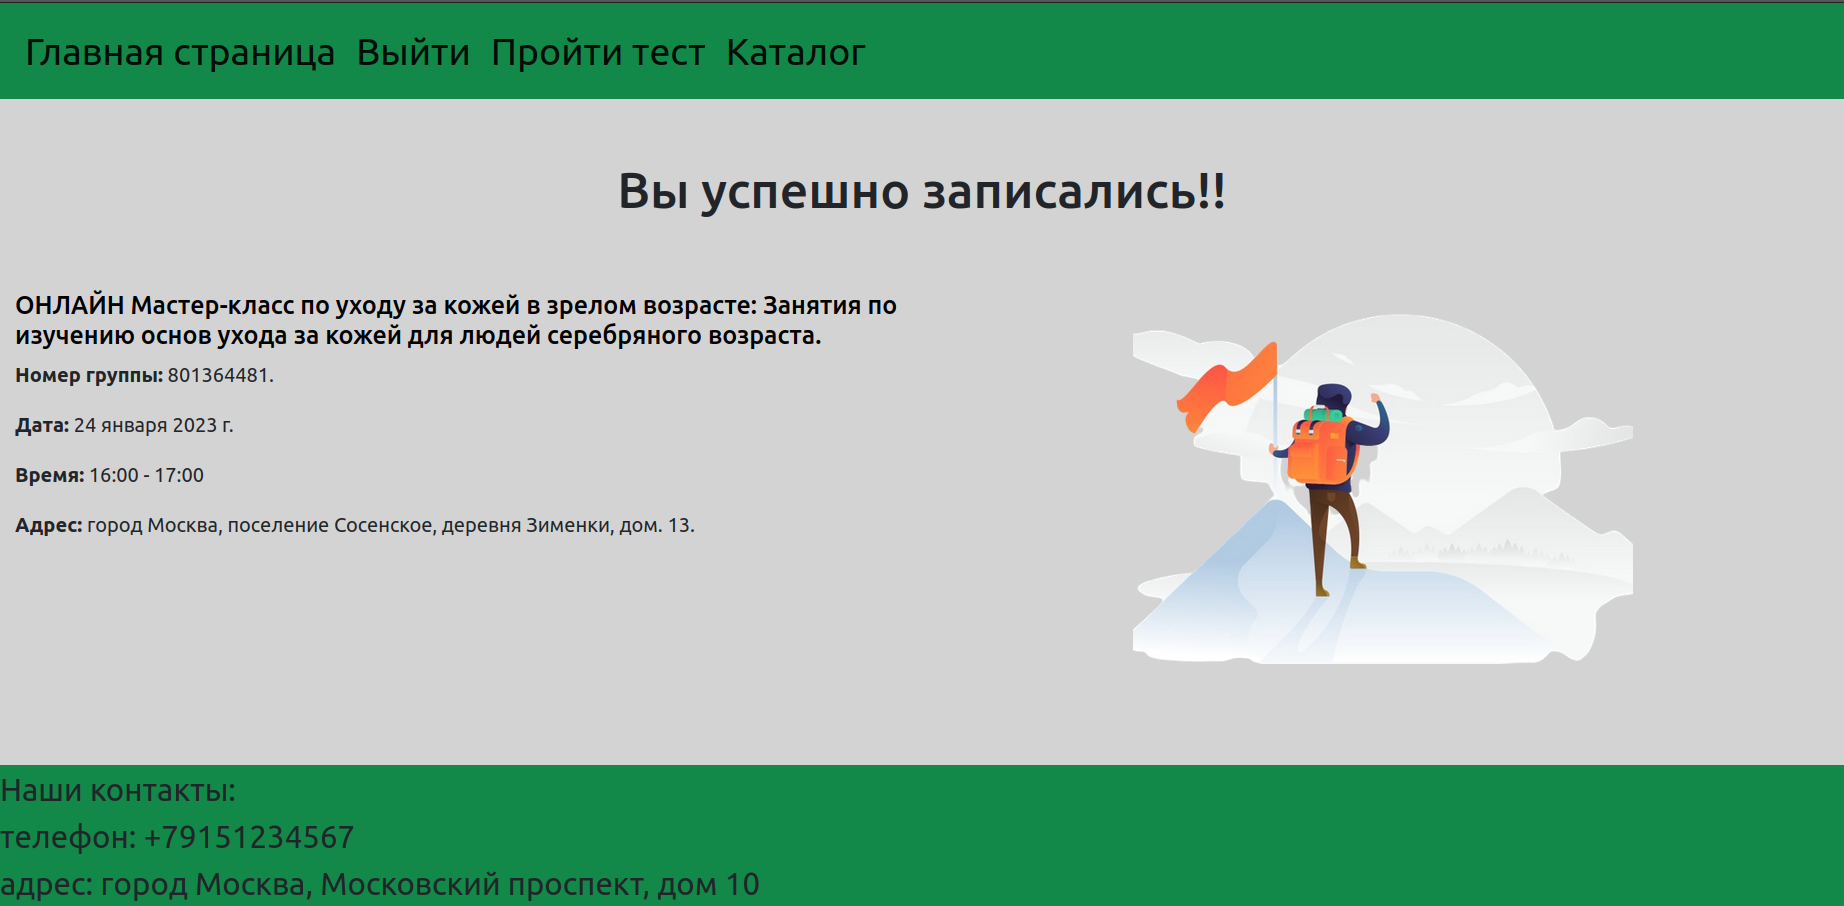
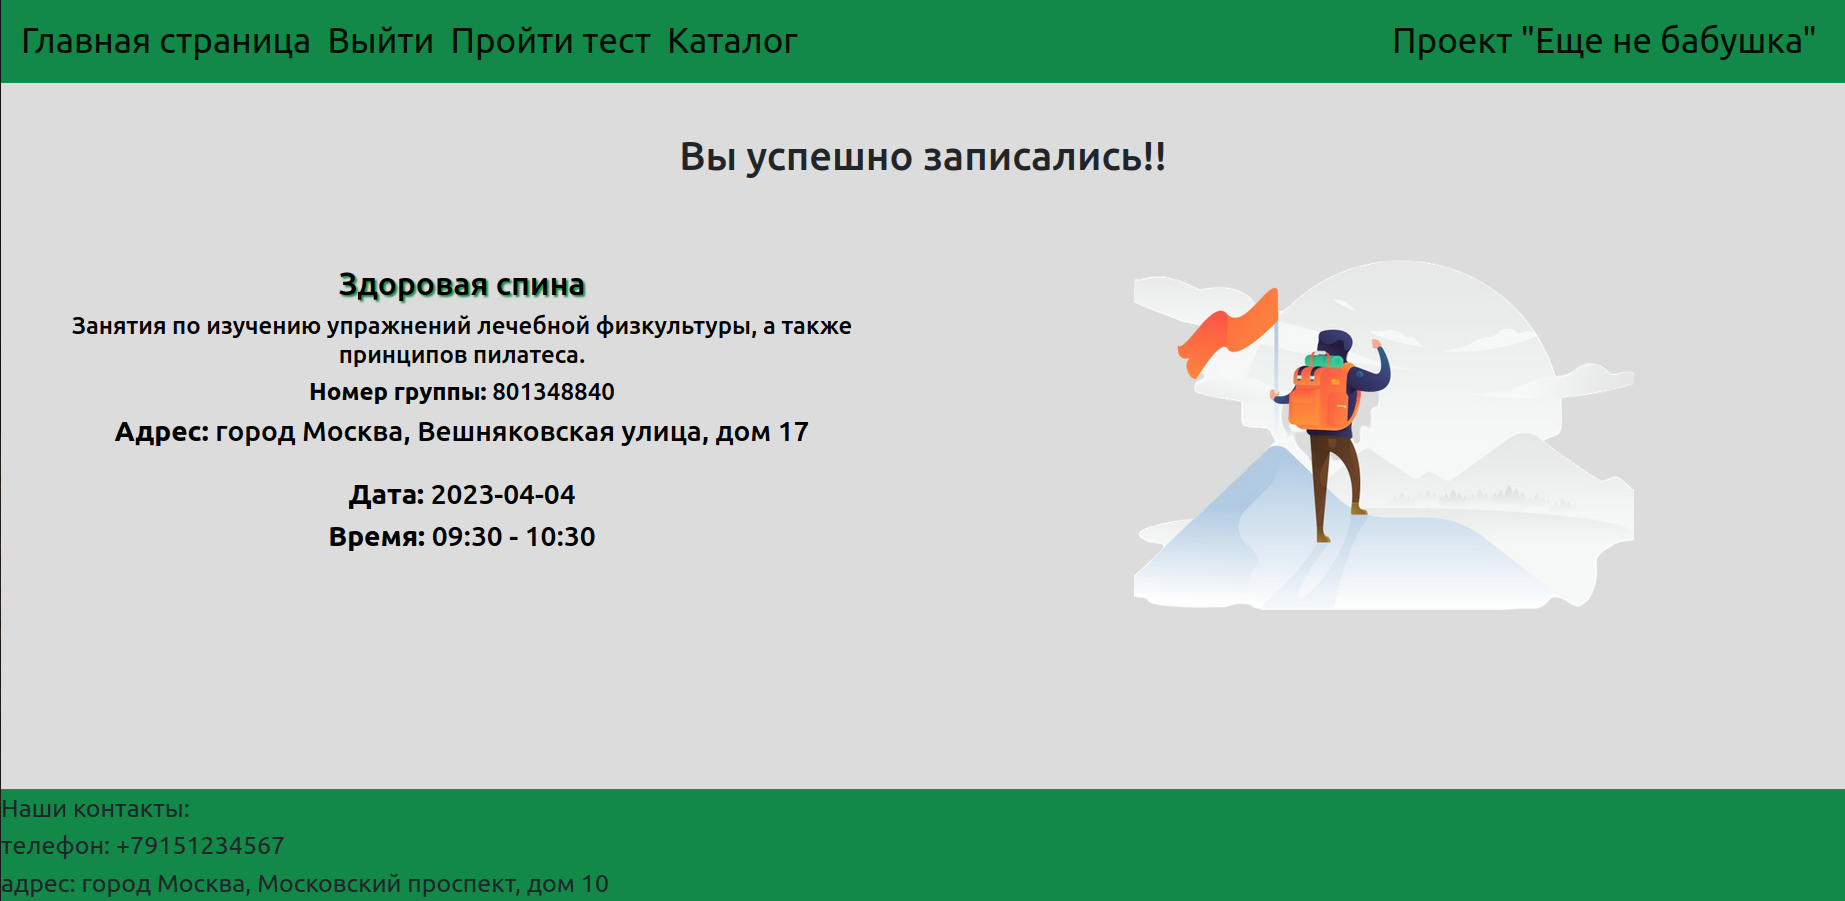
changes css, html

diff --git a/recommendations/rec_app/templates/rec_app/recommendations.html b/recommendations/rec_app/templates/rec_app/recommendations.html
@@ -1,12 +1,10 @@
 {% extends 'base.html' %}
-{% load static %}
-{% load widget_tweaks %}
 {% load django_bootstrap5 %}
 {% block content %}
 <div class="description">
     <div class="row my-5">
         <div class="col-md-9 mx-auto border border-success rounded border-2">
-            <h2 class="text-center"> Ваш результат: {{result}} баллов</h2>
+            <h1 class="text-center"> Ваш результат: {{result}} баллов</h1>
             <h5 class="text-center"> {{description}}</h5>
         </div>
     </div>
@@ -15,29 +13,14 @@
     {% if groups_list %}
     <h4>{{ message }} </h4>
     <div class="row my-5">
-      {% include 'groups_list.html' %}
-        <div class="col-md-4">
-            <h4>Уточните поиск</h4>
-            <form method="GET" action="">
-                <div style="display: grid">
-                    {% for field in filter.form %}
-                    <div id="form-field-{{ forloop.counter0 }}">
-                        {{ field.label_tag }}
-                        {% render_field field class="form-control" %}
-                    </div>
-                    {% endfor %}
-                </div>
-                <button type="submit" class="btn btn-success mb-3 mt-2">Выбрать
-                </button>
-            </form>
-            <p>Внимание!<br/>Занятия онлайн не зависят от района.</p>
-        </div>
+        {% include 'groups_list.html' %}
+        {% include 'filter_with_onoff.html' %}
     </div>
 </div>
-    {% else %}
-    <div class="col-md-12">
-        {% include 'ups.html' %}
-    </div>
-    {% endif %}
+{% else %}
+<div class="col-md-12">
+    {% include 'ups.html' %}
+</div>
+{% endif %}
 {% include 'pagination.html' %}
 {% endblock %}

diff --git a/recommendations/catalog/templates/catalog/signup2group.html b/recommendations/catalog/templates/catalog/signup2group.html
@@ -6,16 +6,10 @@
     <div class="row my-5">
         <h1 class="text-center">{{ message }}:</h1>
         <div class="col-md-6">
+            {% include './group_details.html' %}
             <div class="container">
-                <h2 class="text-center">{{group.level.level}}</h2>
-                <h4 class="text-center">{{group.level.descript_level}}</h4>
-                <h3 class="text_center"><b>Расписание: </b>с {{ group.start_date }} до {{ group.end_date}}</h3>
-                <h3 class="text-center"> день недели: {{ group.weekday }}, время {{ group.start_time }} - {{ group.end_time }}</h3>
-                {% if 'ОНЛАЙН' in group.level.level %}
-                <h5 class="text_center">Занятия проходят он-лайн.</h5>
-                {% else %}
-                <h5 class="text-center"><b>Адрес:</b> {{ group.address }}</h5>
-                {% endif %}
+                <h5 class="text_center"><b>Расписание: </b>с {{ group.start_date }} до {{ group.end_date}}</h5>
+                <h5 class="text-center"><b>день недели: </b>{{ group.weekday }}, время {{ group.start_time }} - {{group.end_time}}</h5>
             </div>
             <div class="container">
                 <form action="" method="post">
@@ -27,7 +21,7 @@
             </div>
         </div>
         <div class="col-md-6">
-            <img src="{% static 'images/choice_2.png' %}" class="mx-auto d-block" width="400px">
+            <img src="{% static 'images/choice_2.png' %}" class="mx-auto d-block" width="500px">
         </div>
     </div>
 </div>

diff --git a/recommendations/catalog/templates/catalog/catalog.html b/recommendations/catalog/templates/catalog/catalog.html
@@ -5,28 +5,24 @@
     <div class="row my-5">
         <h1 class="text-center">{{ message }} </h1>
     </div>
-</div>
-<div class="container-fluid">
-    <div class="row my-5">
-        <div class="col-md-3">
-            <h3> {{ message }}</h3>
-            <form action="" method="post">
-                {% csrf_token %}
-                {% bootstrap_form form %}
-                <button type="submit" class="btn btn-success btn-block">Искать</button>
-            </form>
-        </div>
+    <div class="col-md-4">
+        <h3> {{ searcher }}</h3>
+        <form action="" method="post">
+            {% csrf_token %}
+            {% bootstrap_form form %}
+            <button type="submit" class="btn btn-success btn-block btn-lg">Искать</button>
+        </form>
     </div>
 </div>
 <div class="col-md-12 col-md-push-3">
     <div class="row">
         {% for activity_type in activity_types %}
-        <div class="col-sm-4 text-center" >
+        <div class="col-sm-4 text-center">
             <a class="btn btn-success btn-block btn-lg"
                href="types/{{ activity_type.slug }}" role="button"
                style="--bs-btn-padding-y: .25rem; --bs-btn-padding-x: .5rem; --bs-btn-font-size: 2.75rem;">
                 {{ activity_type.activity_type }}
-                </a>
+            </a>
         </div>
         {% endfor %}
     </div>

diff --git a/recommendations/static/css/style.css b/recommendations/static/css/style.css
@@ -1,18 +1,15 @@
-.menu-item{
-    color: silver;
-    display: inline;
-    text-shadow: 1px 1px 1px #000;
-    font-size: 25px;
-}
-
 footer{
     background-color: #128849;
     font-size: 25px;
 }
 
 .description{
-    background-color: rgb(152, 251, 152);
-    font-size: 25px;
+    background-color: #D3D3D3;
+}
+
+h1{
+    font-size: 85px;
+    text-align: center;
 }
 
 h2{
@@ -36,7 +33,8 @@ h4{
 }
 
 h5{
-    font-size: 24px;
+    font-size: 25px;
+    text-align: center;
     color: black;
 }
 
@@ -49,7 +47,7 @@ li{
 }
 
 input{
-    height: 35px;
+    height: 45px;
     padding: 5px;
     width: 100%;
     margin: 5px 0 22px 0;
@@ -92,7 +90,7 @@ input:focus{
 }
 
 .nav-item{
-    font-size: 30px;
+    font-size: 35px;
 }
 
 .content{
@@ -101,10 +99,24 @@ input:focus{
 
 .page-link{
     font-size: 25px;
-    color: #128849
+    background: 128849;
+    color: black;
 }
 
-.pagination .page-link {
-    background: 128849;
-    color: white;
+.form-control{
+    border: 3px solid #128849 !important;
+    font-size: 1.5rem !important;
+}
+
+.navbar-brand{
+    text-align:right;
+    font-size: 35px;
+}
+
+.form-label{
+    font-size: 25px;
+}
+
+.form-check-label{
+    font-size: 25px;
 }

diff --git a/recommendations/catalog/templates/catalog/group_success_signup.html b/recommendations/catalog/templates/catalog/group_success_signup.html
@@ -7,19 +7,14 @@
     </div>
     <div class="row my-3">
         <div class="col-md-6">
-            <h2>{{ group.level }}</h2>
-            <br/>
-            <h4><b>Номер группы: </b> {{ group.group_id.uniq_id }}</h4>
-<!--            <p><b>Дата: </b>{{ attend.date_attend }}</p>-->
-            <h4><b>Время: </b>{{group.start_time }} - {{ group.end_time }}</h4>
-            {% if 'ОНЛАЙН' in group.level.level %}
-            <h4>Занятия проходят он-лайн.</h4>
-            {% else %}
-            <h4><b>Адрес:</b> {{ group.address }}</h4>
-            {% endif %}
+            {% include './group_details.html' %}
+            <div class="container">
+                <h3 class="text-center"><b>Дата: </b>{{ date_choice }}</h3>
+                <h3 class="text-center"><b>Время: </b>{{group.start_time }} - {{ group.end_time }}</h3>
+            </div>
         </div>
         <div class="col-md-6">
-            <img src="{% static 'images/success.png' %}" class="mx-auto d-block" width="400px">
+            <img src="{% static 'images/success.png' %}" class="mx-auto d-block" width="500px">
         </div>
     </div>
 </div>

diff --git a/recommendations/catalog/templates/catalog/groups.html b/recommendations/catalog/templates/catalog/groups.html
@@ -1,7 +1,5 @@
 {% extends 'base.html' %}
 {% load django_bootstrap5 %}
-{% load widget_tweaks %}
-{% load static %}
 {% block content %}
 <div class="container-fluid">
     {% if groups_list %}
@@ -13,23 +11,9 @@
         </div>
         <div class="col-md-2">
         </div>
-        <div class="col-md-4">
             {% if not 'ОНЛАЙН' in level3.level %}
-            <h4>Уточните поиск:</h4>
-            <form method="GET" action="">
-                <div style="display: grid">
-                    {% for field in filter.form %}
-                    <div id="form-field-{{ forloop.counter0 }}">
-                        {{ field.label_tag }}
-                        {% render_field field class="form-control" %}
-                    </div>
-                    {% endfor %}
-                </div>
-                <button type="submit" class="btn btn-success mb-3 mt-2">Выбрать
-                </button>
-            </form>
+            {% include 'filter_with_onoff.html' %}
             {% endif %}
-        </div>
     </div>
     <div class="row my-3">
         <h4>{{message}}:</h4>

diff --git a/recommendations/catalog/templates/catalog/search_results.html b/recommendations/catalog/templates/catalog/search_results.html
@@ -1,7 +1,5 @@
 {% extends 'base.html' %}
-{% load static %}
 {% load django_bootstrap5 %}
-{% load widget_tweaks %}
 {% block content %}
 <div class="container-fluid">
     {% if groups_list %}
@@ -12,21 +10,7 @@
     </div>
     <div class="row my-5">
         {% include 'groups_list.html' %}
-        <div class="col-md-4">
-            <h4>Уточните поиск</h4>
-            <form method="GET" action="">
-                <div style="display: grid">
-                    {% for field in filter.form %}
-                    <div id="form-field-{{ forloop.counter0 }}">
-                        {{ field.label_tag }}
-                        {% render_field field class="form-control" %}
-                    </div>
-                    {% endfor %}
-                </div>
-                <button type="submit" class="btn btn-success mb-3 mt-2">Выбрать
-                </button>
-            </form>
-        </div>
+        {% include 'filter_with_onoff.html' %}
     </div>
     {% else %}
     <div class="col-md-12">

diff --git a/recommendations/users/templates/users/login.html b/recommendations/users/templates/users/login.html
@@ -6,7 +6,7 @@
         <h1>{{ message }}</h1>
     </div>
     <div class="row my-5">
-        <div class="col-md-6">
+        <div class="col-md-4">
             <form action="" method="post">
                 {% csrf_token %}
                 {{ address_form.media.js }}
@@ -14,11 +14,11 @@
                 {% if address_form%}
                 {% bootstrap_form address_form %}
                 {% endif %}
-                <button type="submit" class="btn btn-success btn-block">Подтвердите</button>
+                <button type="submit" class="btn btn-success btn-block btn-lg">Подтвердите</button>
             </form>
         </div>
-        <div class="col-md-6">
-            <img src="/static/users/images/login.png" class="mx-auto d-block" width="600px">
+        <div class="col-md-8">
+            <img src="/static/users/images/login.png" class="mx-auto d-block" width="650px">
         </div>
     </div>
 </div>

diff --git a/recommendations/templates/filter_with_onoff.html b/recommendations/templates/filter_with_onoff.html
@@ -1,0 +1,18 @@
+{% load widget_tweaks %}
+{% load django_bootstrap5 %}
+<div class="col-md-4">
+    <h4>Уточните поиск</h4>
+    <form method="GET" action="">
+        <div style="display: grid">
+            {% for field in filter.form %}
+            <div id="form-field-{{ forloop.counter0 }}">
+                {{ field.label_tag }}
+                {% render_field field class="form-control" %}
+            </div>
+            {% endfor %}
+        </div>
+        <button type="submit" class="btn btn-success btn-lg mb-3 mt-2">Выбрать
+        </button>
+    </form>
+    <p>Внимание!<br/>Занятия онлайн не зависят от района.</p>
+</div>

diff --git a/recommendations/templates/base.html b/recommendations/templates/base.html
@@ -19,7 +19,7 @@
     {% endblock extrahead %}
 </head>
 
-<body class="d-flex flex-column min-vh-100" style="background-color: lightgray">
+<body class="d-flex flex-column min-vh-100" style="background-color: #DCDCDC">
 <div class="wrapper flex-grow-1">
     <nav class="navbar navbar-expand-lg navbar-light" style="background-color: #128849">
         <div class="container-fluid">
@@ -48,6 +48,7 @@
                 </ul>
             </div>
             {% endif %}
+                <a class="navbar-brand" style="font-size:35px" href="#">Проект "Еще не бабушка" </a>
         </div>
     </nav>
     {% block content %}

diff --git a/recommendations/catalog/templates/catalog/group_details.html b/recommendations/catalog/templates/catalog/group_details.html
@@ -1,0 +1,10 @@
+<div class="container">
+    <h2 class="text-center">{{group.level.level}}</h2>
+    <h4 class="text-center">{{group.level.descript_level}}</h4>
+    <h4 class="text-center"><b>Номер группы: </b>{{group.group_id.uniq_id}}</h4>
+    {% if 'ОНЛАЙН' in group.level.level %}
+    <h3 class="text_center">Занятия проходят он-лайн.</h3>
+    {% else %}
+    <h3 class="text-center"><b>Адрес:</b> {{ group.address }}</h3>
+    {% endif %}
+</div>

diff --git a/recommendations/rec_app/templates/rec_app/test_form.html b/recommendations/rec_app/templates/rec_app/test_form.html
@@ -9,7 +9,7 @@
             <form action="" method="post" style="font-size: 30px">
                 {% csrf_token %}
                 {% bootstrap_form form %}
-                <button type="submit" class="btn btn-success btn-block">Выберите ответ</button>
+                <button type="submit" class="btn btn-success btn-block btn-lg">Выберите ответ</button>
             </form>
         </div>
         <div class="col-md-6">
